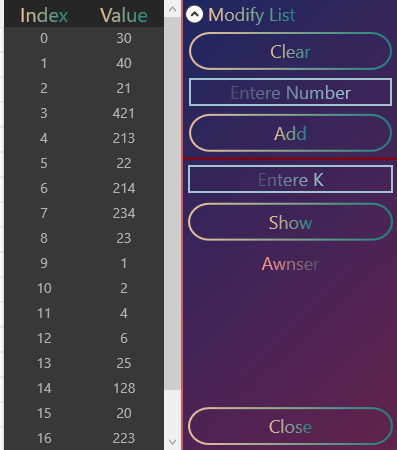
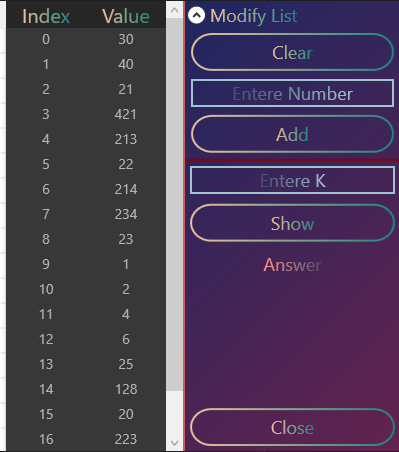
fix ui textblock

diff --git a/Ui/MainWindow.xaml b/Ui/MainWindow.xaml
@@ -112,8 +112,8 @@
                             Margin="5"
                             Style="{StaticResource brnModern}"/>
                     <TextBlock 
-                        x:Name="Awnser" 
-                        Text="Awnser" 
+                        x:Name="Answer" 
+                        Text="Answer" 
                         FontSize="18"
                         HorizontalAlignment="Center" 
                         Margin="5"

diff --git a/Ui/MainWindow.xaml.cs b/Ui/MainWindow.xaml.cs
@@ -61,7 +61,7 @@ namespace Ui
             List<double> inp = new List<double>();
             foreach (Number n in input)
                 inp.Add(n.value);
-            Awnser.Text = Convert.ToString(Select.Quick.QuickSelect(inp, input.Count, Convert.ToInt32(Ktext.Text)));
+            Answer.Text = Convert.ToString(Select.Quick.QuickSelect(inp, input.Count, Convert.ToInt32(Ktext.Text)));
             DGrid.SelectedItem = inp;
         }
         private void Close_Click(object sender, RoutedEventArgs e)
